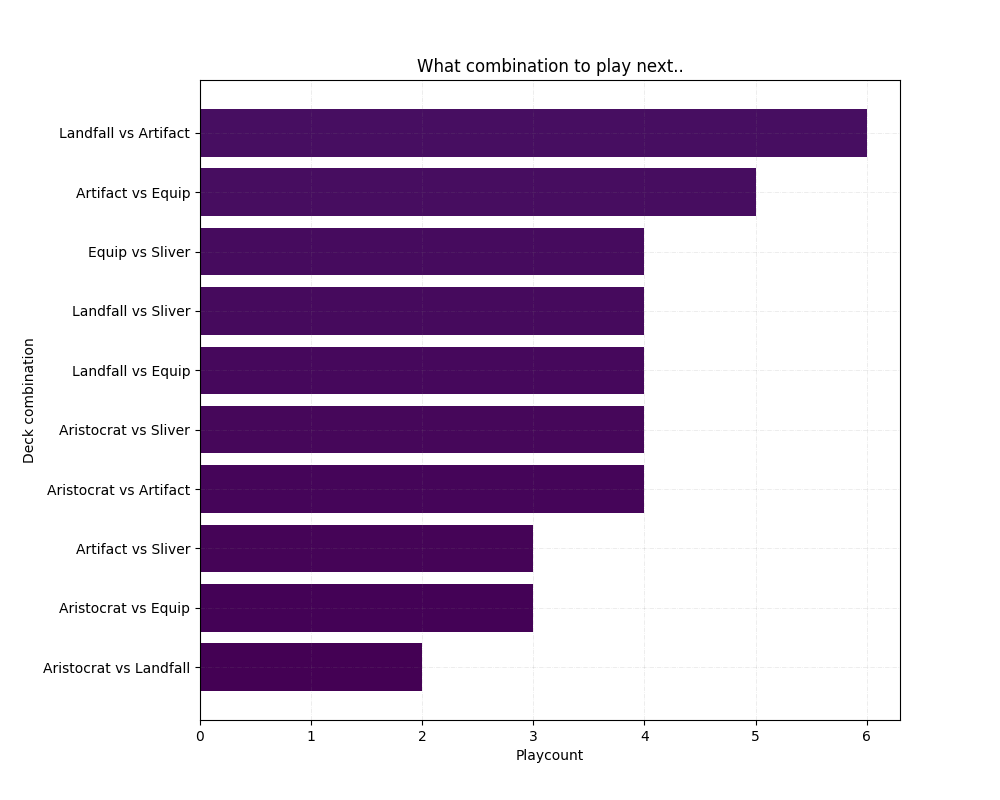
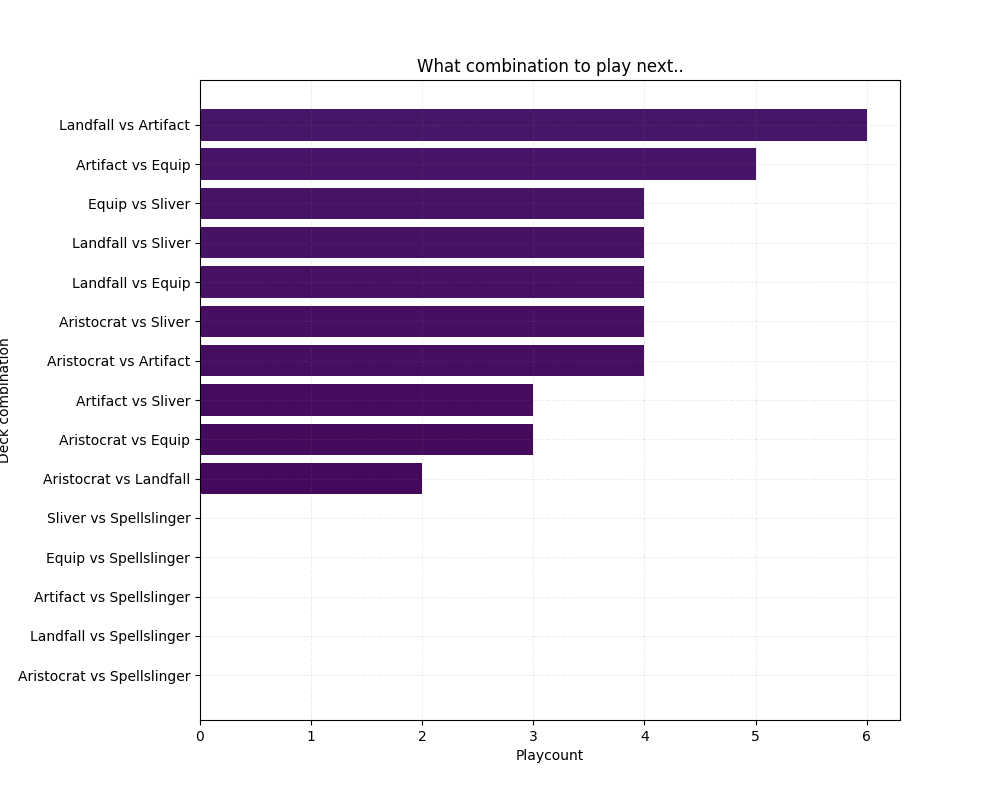
Add Deck Spellslinger

Changed region(s): [[0.0, 0.4062, 0.651, 0.875], [0.062, 0.1562, 0.868, 0.4375]]

diff --git a/win_loss_calc.py b/win_loss_calc.py
@@ -5,7 +5,7 @@ import numpy as np
 
 np.seterr(divide="ignore", invalid="ignore")
 
-DECK_NAME_ORDER = ["Aristocrat", "Landfall", "Artifact", "Equip", "Sliver"]
+DECK_NAME_ORDER = ["Aristocrat", "Landfall", "Artifact", "Equip", "Sliver", "Spellslinger"]
 CMAP = plt.get_cmap("viridis")
 
 
